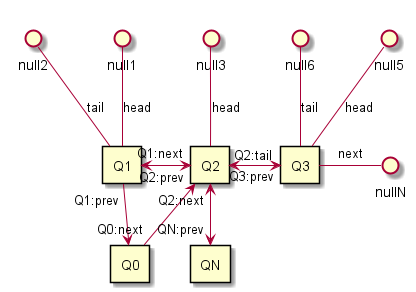
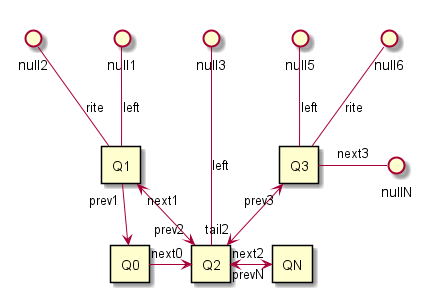
update docs

diff --git a/src/main/java/data/Node.java b/src/main/java/data/Node.java
@@ -16,23 +16,28 @@ public class Node implements Queueable, Solvable, Treeable {
 	Type
 			type = null;
 	Queueable
-			head = null,
-			tail = null,
+			left = null,
+			rite = null,
 			prev = null,
 			next = null;
 
+	void setLeft(Queueable q){left = q;}
+	void setRite(Queueable q){rite = q;}
+	Queueable getLeft(){return left;}
+	Queueable getRite(){return rite;}
+
 //	Queueable \\//\\//\\//\\//\\//\\//\\//\\//\\//\\//\\//\\//\\//\\//\\//\\//\\//\\//\\//\\//\\//\\//\\//\\//\\//\\//\\
 
-	@Override public void setHead(Queueable q) { head = q; }
-	@Override public void setTail(Queueable q) { tail = q; }
+	@Override public void setHead(Queueable q) { setLeft(q); }
+	@Override public void setTail(Queueable q) { setRite(q); }
 	@Override public void setPrev(Queueable q) { prev = q; }
 	@Override public void setNext(Queueable q) { next = q; }
 
 	@Override public double getValue() { return value; }
 	@Override public Type getType() { return type; }
 
-	@Override public Queueable getHead() { return head; }
-	@Override public Queueable getTail() { return tail; }
+	@Override public Queueable getHead() { return getLeft(); }
+	@Override public Queueable getTail() { return getRite(); }
 	@Override public Queueable getPrev() { return prev; }
 	@Override public Queueable getNext() { return next; }
 
@@ -44,8 +49,8 @@ public class Node implements Queueable, Solvable, Treeable {
 				bracketIndexNumber = Type.BRACKET_OUT.ordinal()>>1;
 
 		if (thisIndexNumber < valueIndexNumber && thisIndexNumber > bracketIndexNumber
-				&& getHead().getType() == Type.VALUE && getTail().getType() == Type.VALUE)
-			setValue(solve(getHead().getValue(), getTail().getValue()));
+				&& this.getHead().getType() == Type.VALUE && this.getTail().getType() == Type.VALUE)
+			setValue(solve(this.getHead().getValue(), this.getTail().getValue()));
 
 	}
 	@Override public void setType(Type t) {type = t;}
@@ -76,25 +81,26 @@ public class Node implements Queueable, Solvable, Treeable {
 	public Queueable convertToLocalTree() {
 
 		Queueable
-				left = this,
-				root = getNext(),
-				rite = getNext().getNext();
+				localLeft = this,
+				localRoot = getNext(),
+				localRite = getNext().getNext();
 
-		left.getPrev().setNext(root);	// 1
-		rite.getNext().setPrev(root);	// 2
+		if (localLeft.getPrev() != null)
+			localLeft.getPrev().setNext(localRoot);
 
-		root.setTail(rite);				// 3
+		if (localRite.getNext() != null)
+			localRite.getNext().setPrev(localRoot);
 
-		root.setNext(rite.getNext());	// 4
+		localRoot.setTail(localRite);
+		localRoot.setNext(localRite.getNext());
 
-		rite.setNext(null);				// 5
-		left.setPrev(null);				// 6
+		localRite.setNext(null);
+		localLeft.setPrev(null);
 
-		root.setPrev(left.getPrev());	// 7
+		localRoot.setPrev(localLeft.getPrev());
+		localRoot.setHead(localLeft);
 
-		root.setHead(left);				// 8
-
-		return root;
+		return localRoot;
 	}
 
 }

diff --git a/src/test/java/data/NodeTest.java b/src/test/java/data/NodeTest.java
@@ -1,0 +1,79 @@
+package data;
+
+import logic.Type;
+import org.junit.*;
+
+public class NodeTest {
+
+//	@formatter:of
+
+	static Queueable n1, n2, n3, n4, n5;
+
+	@Before public void initial(){
+		Node.mainQueue.setHead(null);
+		Node.mainQueue.setTail(null);
+
+		n1 = new Node();
+		n2 = new Node();
+		n3 = new Node();
+		n4 = new Node();
+		n5 = new Node();
+
+		n1.setType(Type.VALUE);
+		n3.setType(Type.VALUE);
+		n5.setType(Type.VALUE);
+
+		n2.setType(Type.ADD);
+		n4.setType(Type.DIVIDE);
+	}
+	private void initial_01(){
+		Node.mainQueue.add(n1);
+		Node.mainQueue.add(n2);
+		Node.mainQueue.add(n3);
+	}
+	private void initial_02(){
+		initial_01();
+		Node.mainQueue.add(n4);
+		Node.mainQueue.add(n5);
+	}
+
+	@Test public void convertToLocalTree_01(){
+		initial_01();
+		Assert.assertSame(n2, ((Node)Node.mainQueue.getHead()).convertToLocalTree());
+	}
+	@Test public void convertToLocalTree_02(){
+		initial_01();
+		Queueable expect = ((Node)Node.mainQueue.getHead()).convertToLocalTree();
+		Assert.assertSame(n1, expect.getHead());
+	}
+	@Test public void convertToLocalTree_03(){
+		initial_01();
+		Queueable expect = ((Node)Node.mainQueue.getHead()).convertToLocalTree();
+		Assert.assertSame(n3, expect.getTail());
+	}
+	@Test public void convertToLocalTree_04(){
+		initial_01();
+		Queueable expect = ((Node)Node.mainQueue.getHead()).convertToLocalTree();
+		Assert.assertSame(n2, expect.getHead().getNext());
+	}
+	@Test public void convertToLocalTree_05(){
+		initial_01();
+		Queueable expect = ((Node)Node.mainQueue.getHead()).convertToLocalTree();
+		Assert.assertSame(n2, expect.getTail().getPrev());
+	}
+
+//	@formatter:on
+
+	@Ignore
+	@Test
+	public void convertToLocalTree_06(){
+		initial_02();
+
+		((Node)n4).convertToLocalTree();
+		Queueable expect = ((Node)Node.mainQueue).convertToLocalTree();
+		Assert.assertSame(n3, expect.getTail().getHead());
+	}
+
+
+
+}

diff --git a/src/main/java/data/Queueable.java b/src/main/java/data/Queueable.java
@@ -37,6 +37,17 @@ public interface Queueable {
 		return getHead() == getTail() && getHead() != null;
 	}
 
+	default void add(Queueable q){
+		if(isEmpty()){
+			setHead(q);
+//			setTail(q);
+		} else {
+			q.setPrev(getTail());
+			q.getPrev().setNext(q);
+		}
+		setTail(q);
+	}
+
 	Queueable getHead();
 	Queueable getTail();
 	Queueable getPrev();
